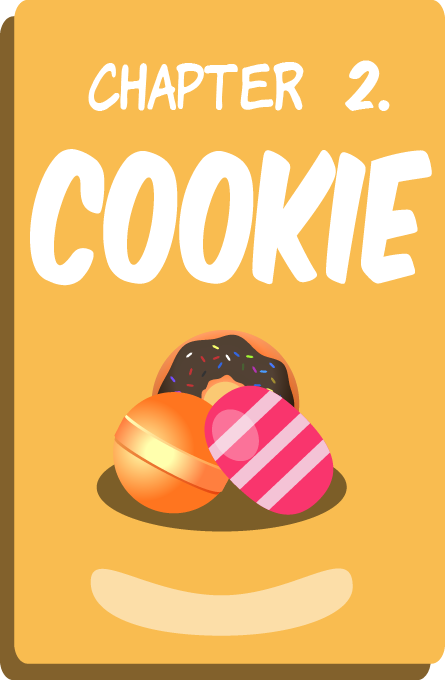
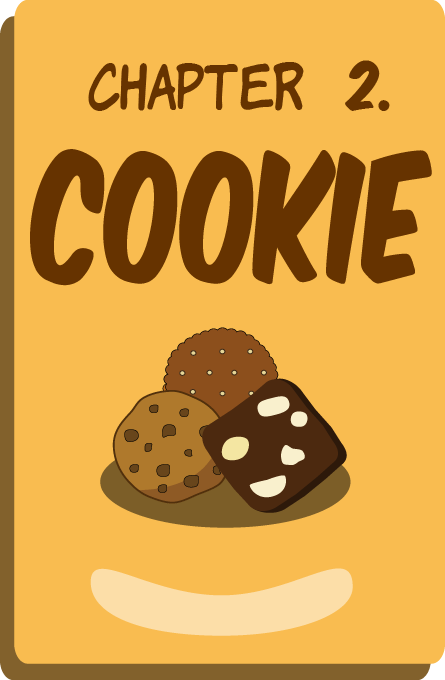
[NEW]New Episode Unlocked Animation

diff --git a/Classes/Controller/GameController.cpp b/Classes/Controller/GameController.cpp
@@ -339,7 +339,9 @@ namespace Controller
         bool isNewHighscore = current->getIsNewHighScore();
         // 新分數與舊有分數的差距
         int newHighScorediff = current->getNewHighScoreDiff();
-
+        
+        bool isUnlockedEpisode = false;
+        
         // 如果勝利且是第一次完成此關卡
         if (current->getIsVictory() && current->getAlreadyComplete() == false) {
             // 取得每個章節最多的關卡數，-1是為了與關卡編號做比較，關卡編號從0開始
@@ -347,15 +349,22 @@ namespace Controller
             // 取得app的總章節數，-1是為了與章節編號做比較，章節編號從0開始
             int maxEpisode = DB::EpisodeSetting::getInstance()->getMax() - 1;
             
-            // 如果完成的關卡是章節裡的最後一關，場景將切至下一章節的關卡選擇畫面
+            // 如果完成的關卡是章節裡的最後一關，場景將切至章節選擇畫面
             if (stageNumber == maxStage) {
                 newEpisodeNumber++;
+                isUnlockedEpisode = true;
             }
             // 如果章節是最後一個章節(沒有下一章節)，場景將切回原章節的關卡選擇畫面(既最後一章節)
             if (newEpisodeNumber > maxEpisode) {
+                isUnlockedEpisode = false;
                 newEpisodeNumber = episodeNumber;
             }
         }
+        if (isUnlockedEpisode) {
+            this->PlaySceneToSelectionScene(episodeNumber, stageNumber, newEpisodeNumber);
+            return;
+        }
+        
         this->removePauseSceneFromCurrentScene();
         this->removeLoseSceneFromCurrentScene();
         this->removeVictorySceneFromCurrentScene();
@@ -402,5 +411,27 @@ namespace Controller
         this->addPauseSceneToCurrentScene();
         Director::getInstance()->replaceScene(scene);
         scene->play();
+    }
+    
+    void GameController::PlaySceneToSelectionScene(int episodeNumber, int stageNumber, int unlockedEpisodeNumber)
+    {
+        this->removePauseSceneFromCurrentScene();
+        this->removeLoseSceneFromCurrentScene();
+        this->removeVictorySceneFromCurrentScene();
+        this->releasePauseSceneResource();
+        this->releaseVictorySceneResource();
+        this->releaseLoseSceneResource();
+        this->releasePlaySceneResource(episodeNumber, stageNumber);
+        // 將一些被cocos2d核心程式快取，殘留在記憶體沒有被釋放的物件做記憶體釋放
+        Director::getInstance()->purgeCachedData();
+        this->loadMenuSceneResource();
+        this->loadStartSceneResource();
+        this->loadSelectionSceneResource();
+        SelectionScene* selectionScene = static_cast<SelectionScene*>(SceneManager::getInstance()->getByKey("SelectionScene"));
+        SceneManager::getInstance()->setCurrent(selectionScene);
+        this->addMenuSceneToCurrentScene();
+        Director::getInstance()->replaceScene(selectionScene);
+        selectionScene->runConstantAnimation();
+        selectionScene->runUnlockedEpisodeAnimation(unlockedEpisodeNumber);
     }
 }

diff --git a/Classes/GameScene/SelectionScene.cpp b/Classes/GameScene/SelectionScene.cpp
@@ -73,6 +73,17 @@ namespace GameScene
             key << "SelectionScene_EpisodeButton_" << i;
             spriteManager->setWithKey(key.str(), episodeButton);
         }
+        
+        this->unlockedMask = new GameSprite::UnlockedMask("image/Mask.png");
+        spriteManager->setWithKey("SelectionScene_UnlockedMask", this->unlockedMask);
+        this->unlockedMask->setPosition(Vec2(this->center));
+        this->addChild(this->unlockedMask, -100);
+        
+        this->chapterUnlocked = new GameSprite::Image("image/Chapter1Unlocked.png");
+        spriteManager->setWithKey("SelectionScene_ChapterUnlocked", this->chapterUnlocked);
+        this->chapterUnlocked->setPosition(this->centerTop);
+        this->addChild(this->chapterUnlocked, -100);
+
     }
     
     void SelectionScene::releaseScene()
@@ -94,6 +105,9 @@ namespace GameScene
             key << "SelectionScene_EpisodeButton_" << i;
             spriteManager->releaseByKey(key.str());
         }
+        spriteManager->releaseByKey("SelectionScene_UnlockedMask");
+        spriteManager->releaseByKey("SelectionScene_ChapterUnlocked");
+
     }
     
     void SelectionScene::runConstantAnimation()
@@ -116,6 +130,34 @@ namespace GameScene
         this->moveCloud2->runAction(repeat100->clone());
         this->moveCloud3->runAction(repeat100->clone());
         this->moveCloud4->runAction(repeat150->clone());
+    }
+    
+    void SelectionScene::runUnlockedEpisodeAnimation(int unlockedEpisodeNumber)
+    {
+        Director::getInstance()->getEventDispatcher()->setEnabled(false);
+        std::stringstream key;
+        key << "image/Chapter" << unlockedEpisodeNumber << "Unlocked.png";
+        TextureCreator* textureCreator = TextureCreator::getInstance();
+        Texture2D* unclockedTexutre = textureCreator->getAutoSizeTexture2d(key.str());
+        this->chapterUnlocked->setTexture(unclockedTexutre);
+        this->chapterUnlocked->setPosition(this->centerTop);
+        this->unlockedMask->setLocalZOrder(100);
+        this->chapterUnlocked->setLocalZOrder(101);
+        this->chapterUnlocked->runAction(Sequence::create(
+                                                        MoveTo::create(0.6f, this->center),
+                                                        CallFunc::create(CC_CALLBACK_0(SelectionScene::setUnlockedMaskClickable, this)),
+                                                        NULL));
+    }
+    
+    void SelectionScene::removeUnlockedSprite()
+    {
+        this->chapterUnlocked->setLocalZOrder(-100);
+        this->unlockedMask->setLocalZOrder(-100);
+    }
+    
+    void SelectionScene::setUnlockedMaskClickable()
+    {
+        Director::getInstance()->getEventDispatcher()->setEnabled(true);
     }
     
     Vec2 SelectionScene::getBackgroundPosition()

diff --git a/Classes/GameSprite/UnlockedMask.h b/Classes/GameSprite/UnlockedMask.h
@@ -1,0 +1,59 @@
+#ifndef _GameSprite_UnlockedMask_H_
+#define _GameSprite_UnlockedMask_H_
+
+#include "cocos2d.h"
+#include "BaseSprite.h"
+#include "Manager/SceneManager.h"
+#include "Manager/SpriteManager.h"
+
+
+namespace GameSprite
+{
+    class UnlockedMask : public BaseSprite
+    {
+    public:
+        /**
+         @brief 建構式
+         */
+        UnlockedMask(std::string image);
+        
+        /**
+         @brief 將按鈕加入事件監聽，按鈕會開始偵測觸控輸入
+         */
+        void addEventListener();
+    private:
+        /**
+         @brief 偵測解鎖遮罩被按下的狀態，這裡不會執行任何動作，但仍會偵測點擊狀態
+         @param touch 觸控區塊資訊
+         @param event 事件監聽物件
+         @return 一個布林變數，代表此狀態結束後是否要繼續監聽其他事件
+         */
+        static bool onTouchBegan(Touch *touch, Event *event);
+        
+        /**
+         @brief 偵測解鎖遮罩點擊結束的狀態
+         會將設定選單的畫面關閉
+         @param touch 觸控區塊資訊
+         @param event 事件監聽物件
+         */
+        static void onTouchEnded(Touch *touch, Event *event);
+        
+        /**
+         @brief 偵測解鎖遮罩被拖曳的狀態，這裡不會執行任何動作
+         @param touch 觸控區塊資訊
+         @param event 事件監聽物件
+         */
+        static void onTouchMoved(Touch *touch, Event *event);
+        
+        /**
+         @brief 偵測解鎖遮罩被取消的狀態，這裡不會執行任何動作
+         @param touch 觸控區塊資訊
+         @param event 事件監聽物件
+         */
+        static void onTouchCanceled(Touch *touch, Event *event);
+
+    };
+}
+
+
+#endif /* _GameSprite_UnlockedMask_H_ */

diff --git a/Classes/GameSprite/UnlockedMask.cpp b/Classes/GameSprite/UnlockedMask.cpp
@@ -1,0 +1,50 @@
+#include "UnlockedMask.h"
+#include "GameScene/SelectionScene.h"
+
+namespace GameSprite
+{
+    UnlockedMask::UnlockedMask(std::string image) : GameSprite::BaseSprite(image)
+    {
+        this->addEventListener();
+    }
+    
+    void UnlockedMask::addEventListener()
+    {
+        auto listener = EventListenerTouchOneByOne::create();
+        listener->setSwallowTouches(true);
+        listener->onTouchBegan = UnlockedMask::onTouchBegan;
+        listener->onTouchEnded = UnlockedMask::onTouchEnded;
+        listener->onTouchMoved = UnlockedMask::onTouchMoved;
+        listener->onTouchCancelled = UnlockedMask::onTouchCanceled;
+        Director::getInstance()->getEventDispatcher()
+        ->addEventListenerWithSceneGraphPriority(listener, this);
+    }
+    
+    bool UnlockedMask::onTouchBegan(Touch* touch, Event* event)
+    {
+        auto target = static_cast<Sprite*>(event->getCurrentTarget());
+        Vec2 locationInNode = target->convertToNodeSpace(touch->getLocation());
+        Size s = target->getContentSize();
+        Rect rect = Rect(0, 0, s.width, s.height);
+        if (rect.containsPoint(locationInNode)) {
+            log("UnlockedMask began... x = %f, y = %f", locationInNode.x, locationInNode.y);
+            return true;
+        }
+        return false;
+    }
+    
+    void UnlockedMask::onTouchEnded(Touch* touch, Event* event)
+    {
+        SelectionScene* scene = static_cast<SelectionScene*>(Manager::SceneManager::getInstance()->getCurrent());
+        scene->removeUnlockedSprite();
+    }
+    
+    void UnlockedMask::onTouchMoved(Touch* touch, Event* event)
+    {
+    }
+    
+    void UnlockedMask::onTouchCanceled(Touch* touch, Event* event)
+    {
+    }
+
+}

diff --git a/Classes/GameScene/SelectionScene.h b/Classes/GameScene/SelectionScene.h
@@ -9,6 +9,7 @@
 #include "GameSprite/EpisodeButton.h"
 #include "GameSprite/BackButton.h"
 #include "GameSprite/SelectionTitle.h"
+#include "GameSprite/UnlockedMask.h"
 #include "Db/EpisodeSetting.h"
 #include "Manager/SpriteManager.h"
 #include "Config/ImageConfig.h"
@@ -43,6 +44,21 @@ namespace GameScene
          */
         void runConstantAnimation();
         
+        /**
+         @breief 播放章節解鎖動畫
+         */
+        void runUnlockedEpisodeAnimation(int unlockedEpisodeNumber);
+        
+        /**
+         @brief 將unlocked chapter的物件從畫面中移除
+         */
+        void removeUnlockedSprite();
+        
+        /**
+         @brief 關閉unlocked mask的觸控監聽
+         */
+        void setUnlockedMaskClickable();
+        
         // 背景圖檔物件
         GameSprite::Background* selectionBackground;
         
@@ -54,6 +70,12 @@ namespace GameScene
         
         // 章節按鈕，讓玩家選擇不同的章節來進行遊戲
         std::vector<GameSprite::EpisodeButton*> episodeButtonVector;
+        
+        // 章節解鎖的通知圖示
+        GameSprite::Image* chapterUnlocked;
+        
+        // 章節解鎖的背景遮罩
+        GameSprite::UnlockedMask* unlockedMask;
         
         // 移動的雲
         GameSprite::Image* moveCloud0;

diff --git a/Classes/Controller/GameController.h b/Classes/Controller/GameController.h
@@ -214,6 +214,14 @@ namespace Controller
          @param stageNumber 關卡編號
          */
         void PlaySceneToEpisodeScene(int episodeNumber, int stageNumber);
+        
+        /**
+         @brief 畫面從PlayScene切換至EpisodeScene，只有在解鎖新關卡時會呼叫此方法，此方法會釋放PlayScene的資源
+         @param episodeNumber 章節編號
+         @param stageNumber 關卡編號
+         @param unlockedEpisodeNumber 新解鎖的章節編號
+         */
+        void PlaySceneToSelectionScene(int episodeNumber, int stageNumber, int unlockedEpisodeNumber);
     private:
         /**
          @brief 建構式

diff --git a/Classes/GameScene/PlayScene.cpp b/Classes/GameScene/PlayScene.cpp
@@ -585,7 +585,7 @@ namespace GameScene
                     this->newHighScoreDiff = newScore;
                     this->showTimesUp();
                     return;
-                // 如果該關卡是第一張的第一關
+                // 如果該關卡是第一章的第一關
                 } else if (this->episodeNumber == 0 && this->stageNumber == 0) {
                     this->isNewHighScore = true;
                     this->newHighScoreDiff = newScore;
